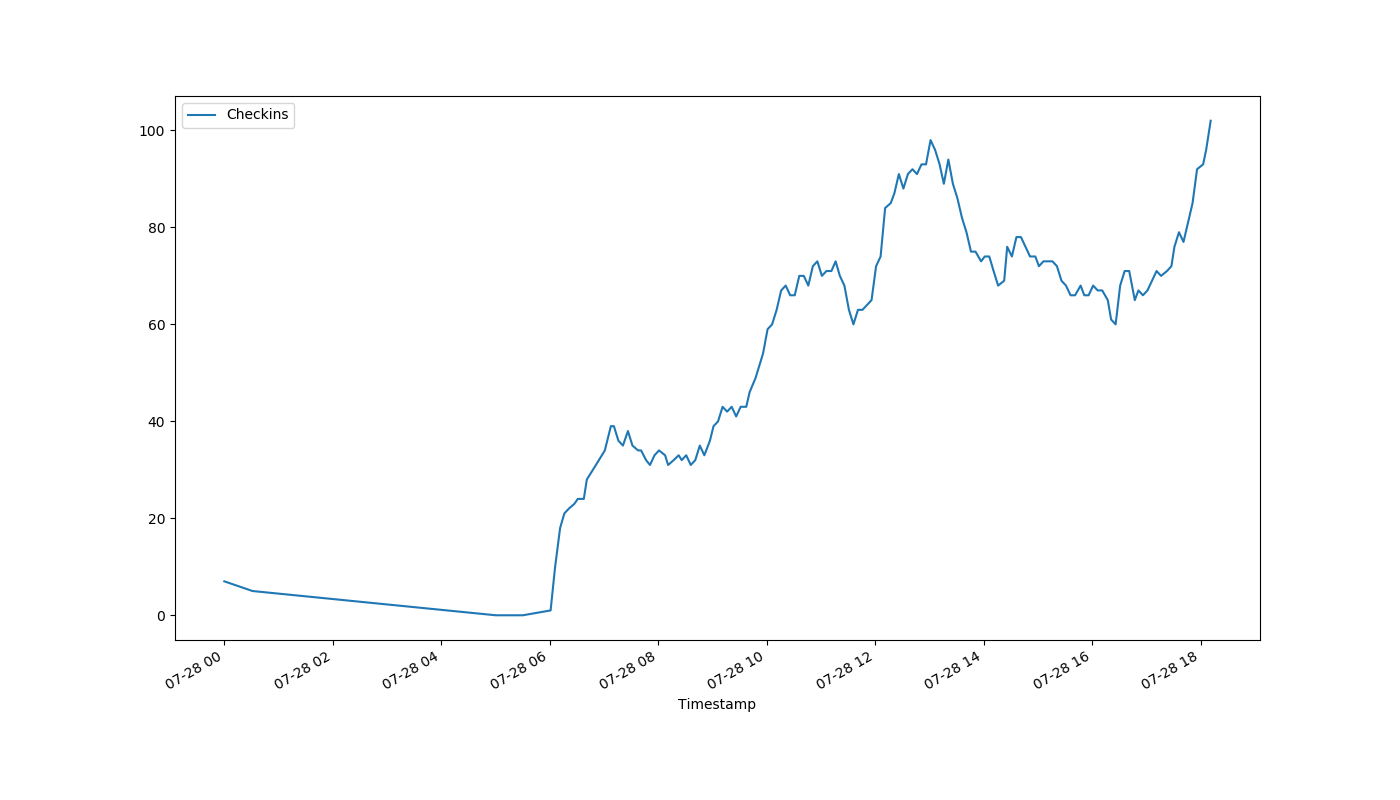
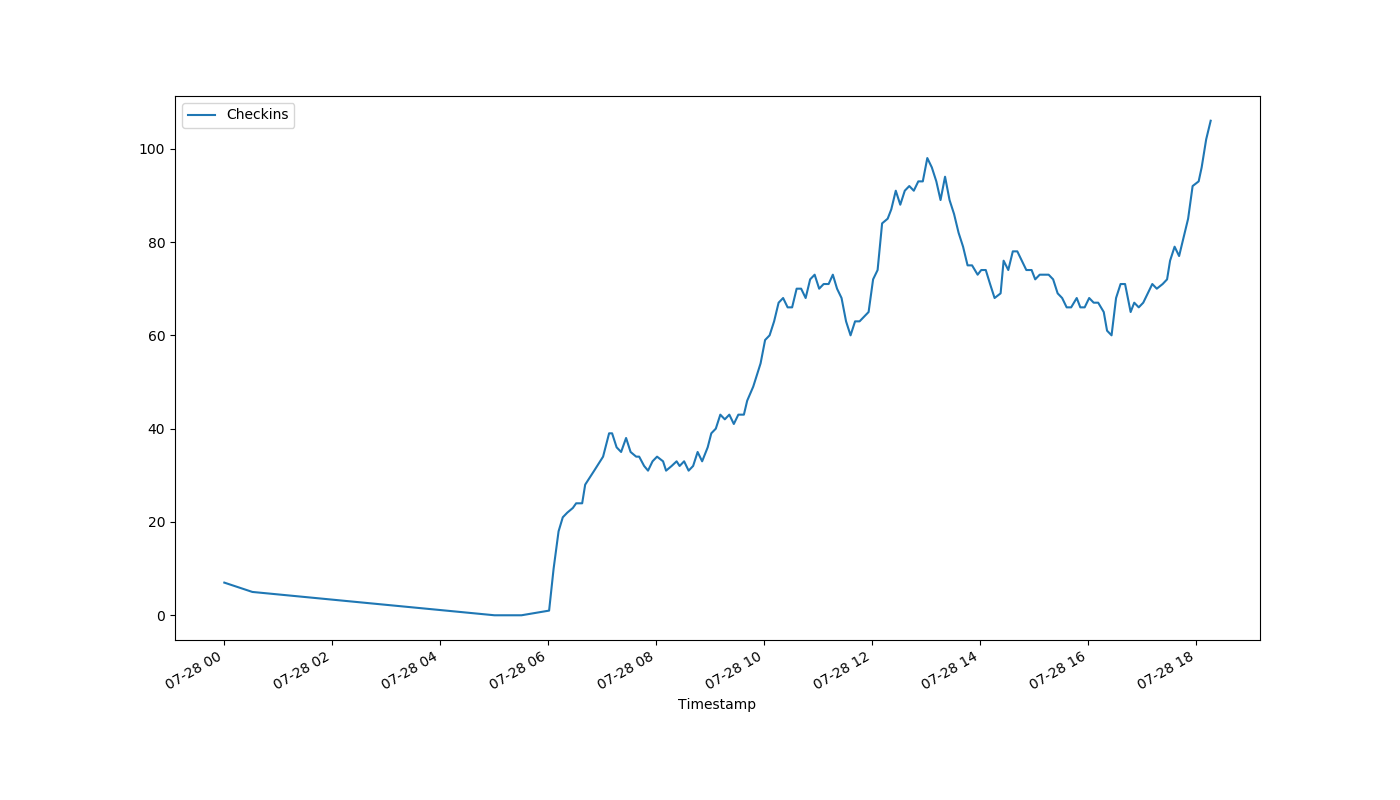
auto-Jul-28-18:16:47

diff --git a/index.html b/index.html
@@ -1,1 +1,1 @@
-<!DOCTYPE html><html><head><meta http-equiv="refresh" content="30"><link rel='stylesheet' href='holmcurrent.css'></head><body><p id='count'>102</p><div id='graph-wrap'><img id='graph' src='holmgraph-Jul-28.png'></div><p id='updated'>Last updated 18:11:16 / 18:11:08</p></body></html>
+<!DOCTYPE html><html><head><meta http-equiv="refresh" content="30"><link rel='stylesheet' href='holmcurrent.css'></head><body><p id='count'>106</p><div id='graph-wrap'><img id='graph' src='holmgraph-Jul-28.png'></div><p id='updated'>Last updated 18:16:16 / 18:16:09</p></body></html>
